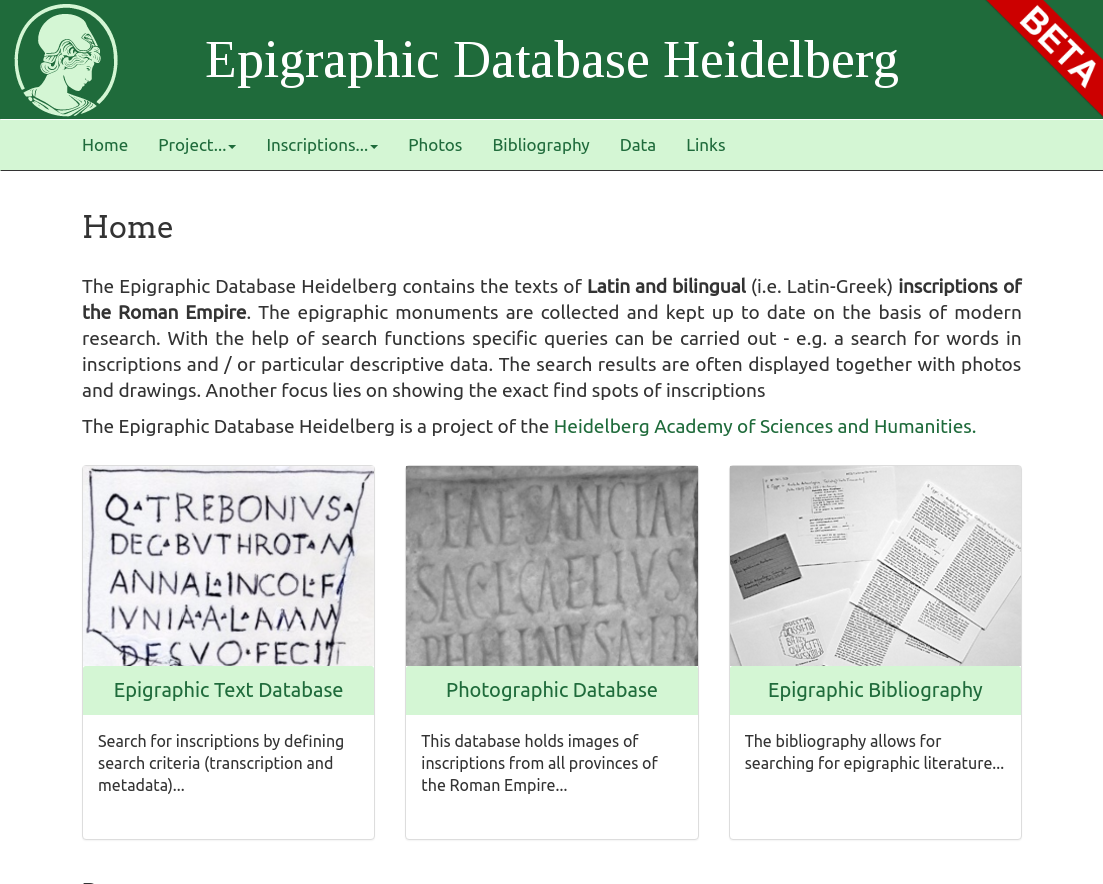
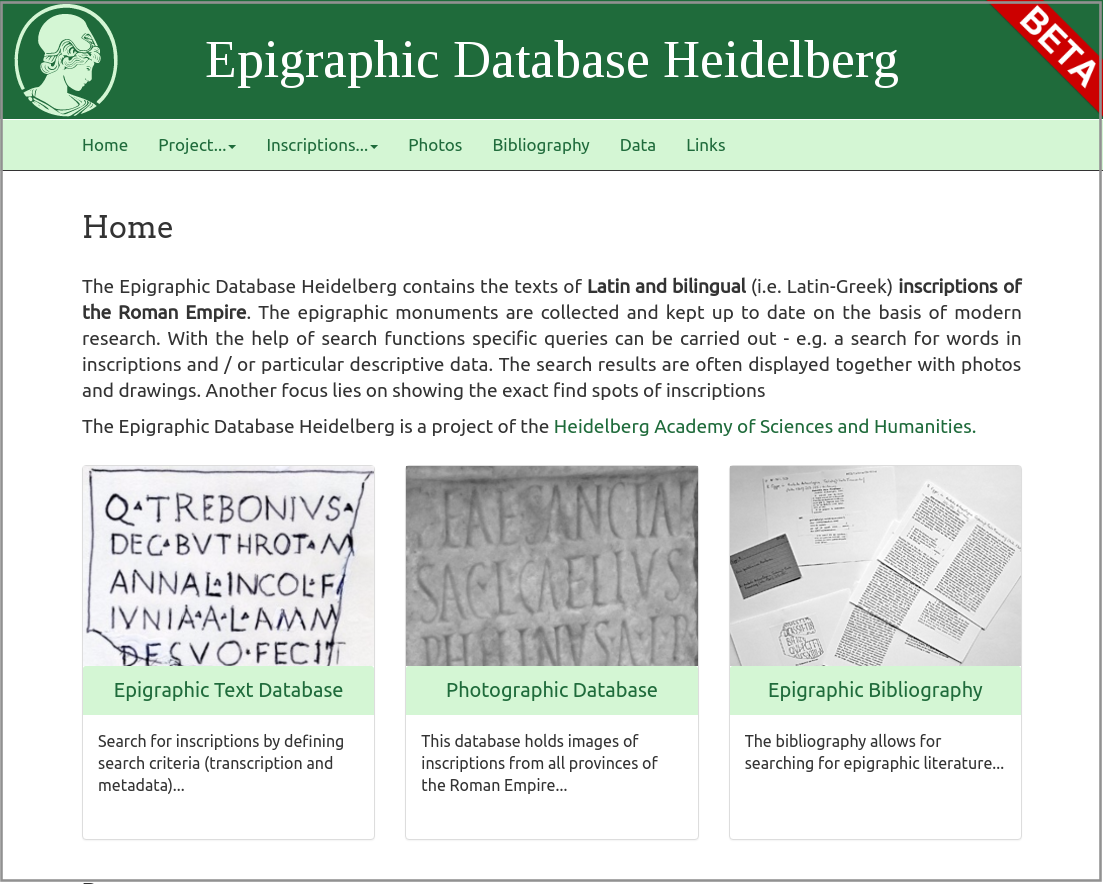
adding border to screenshot of new EDH landing page

Changed region(s): [[0.0, 0.0, 1.0, 1.0]]

diff --git a/README.md b/README.md
@@ -7,4 +7,4 @@ Code and data can be reused under the [CC BY_SA 4.0 licence](https://creativecom
 
 [![License: CC BY-SA 4.0](https://img.shields.io/badge/License-CC%20BY--SA%204.0-lightgrey.svg)](https://creativecommons.org/licenses/by-sa/4.0/)
 
-![huhu](edh_web_application/static/img/screenshot_website.png)
+![EDH](edh_web_application/static/img/screenshot_website.png)
